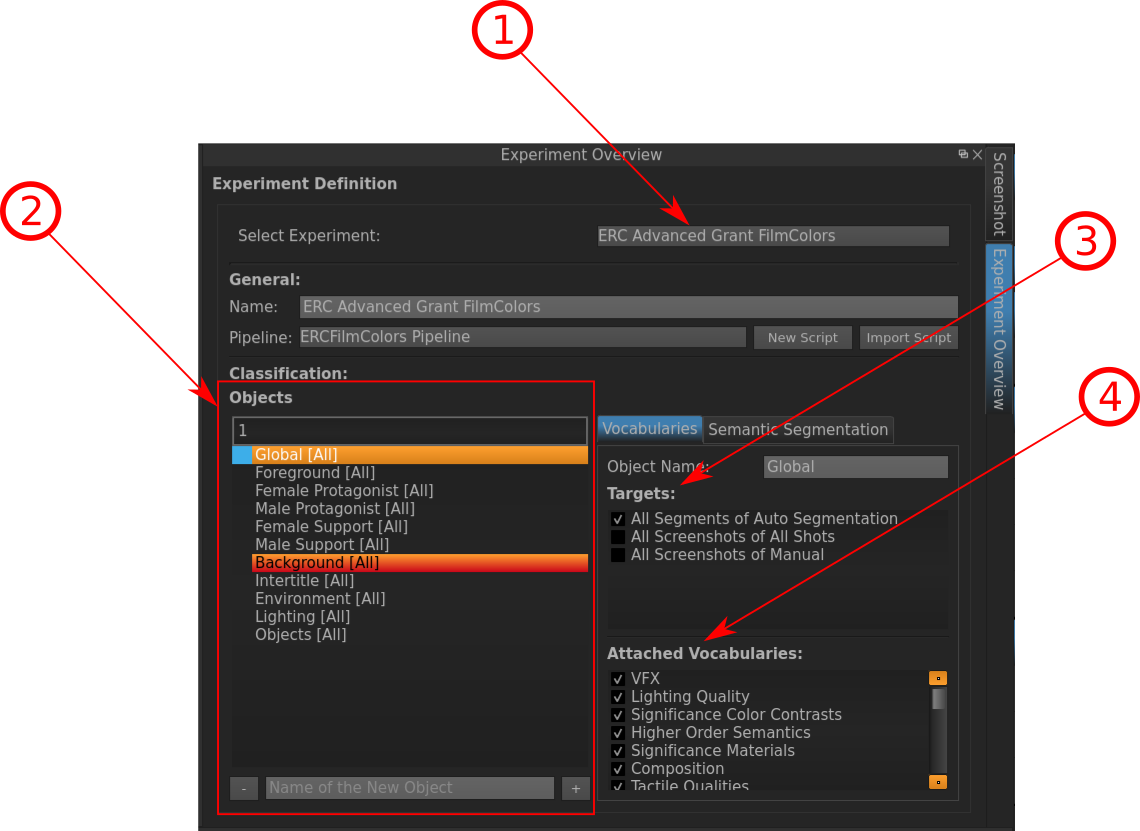
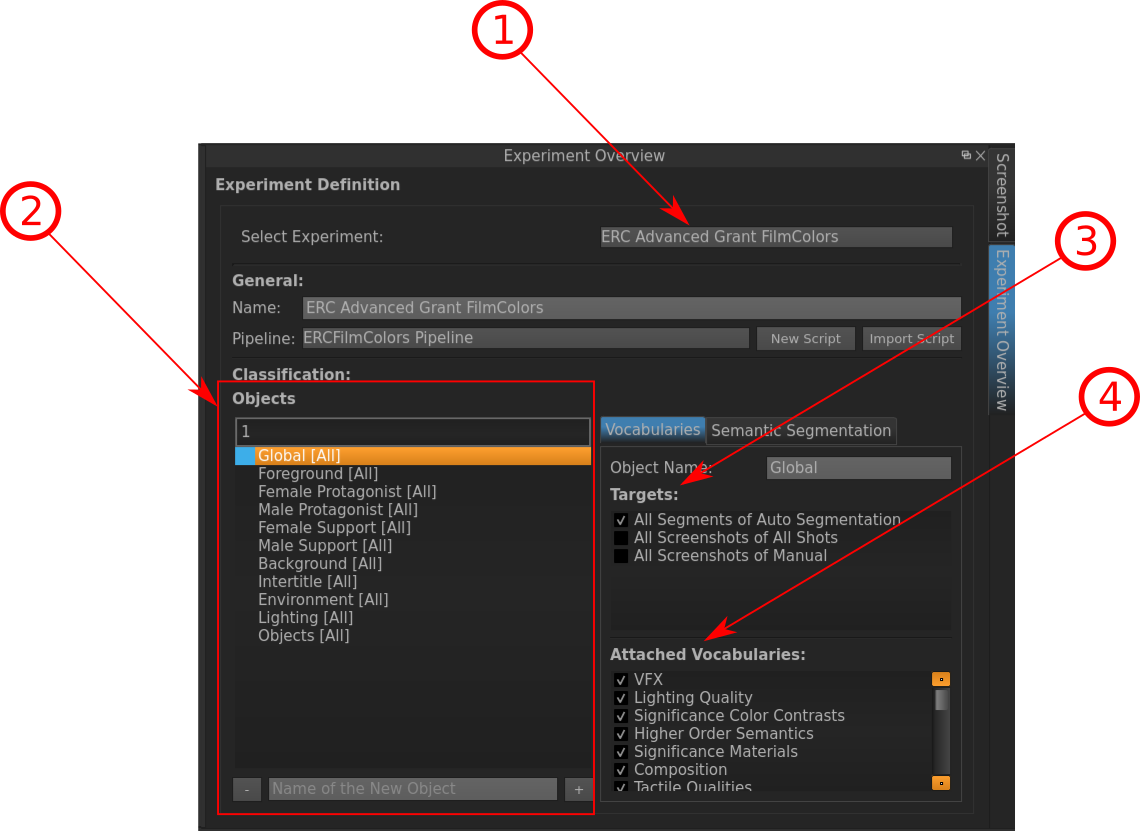
Wiki: Small changes in setp

diff --git a/_docs/source/user_interface/interface_detail/setup/setup.rst b/_docs/source/user_interface/interface_detail/setup/setup.rst
@@ -1,18 +1,19 @@
 .. _setup:
 
 Setup
-===========
+=====
+
+The Setup window displays the Experiment Overview of the current Project. I.e. in it is definable which :ref:`experiment` with which :ref:`vocabulary` on which objects (e.g. :ref:`screenshot`) you want to run. Generally, you would do such a task rather during the **Setup**-step of your project.
 
 .. image:: setup_2.png
-   :scale: 80%
-   :align: right
+   :scale: 65%
+   :align: center
    :alt: map to buried treasure
 
 Indicated Information:
 
 - **1**: The :ref:`experiment` with which you want to carry out the :ref:`classification`.
-- **2**:
-- **3**:
+- **2**: The Object defined in the selected Experiment. Select one (e.g. "Global") to define the Targets on which you want to classify this Object (**3**) and the Vocabularies you want to use therefore (**4**). 
    
 * :ref:`genindex`
 * :ref:`modindex`

diff --git a/_docs/source/user_interface/interface_detail/vocabulary/vocabulary.rst b/_docs/source/user_interface/interface_detail/vocabulary/vocabulary.rst
@@ -1,4 +1,4 @@
-.. _vocabulary::
+.. _vocabulary:
 
 Vocabulary
 ==========
